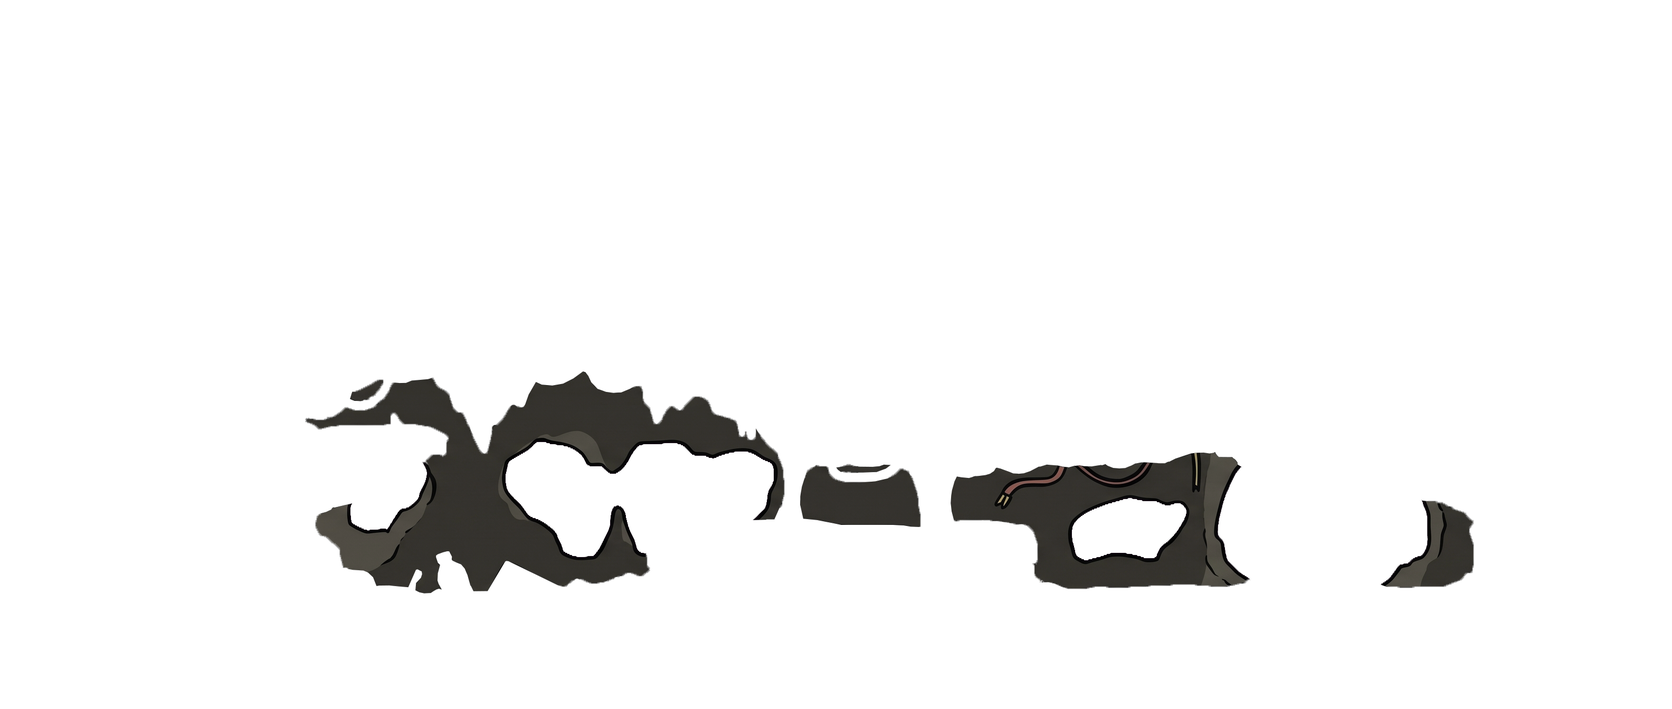
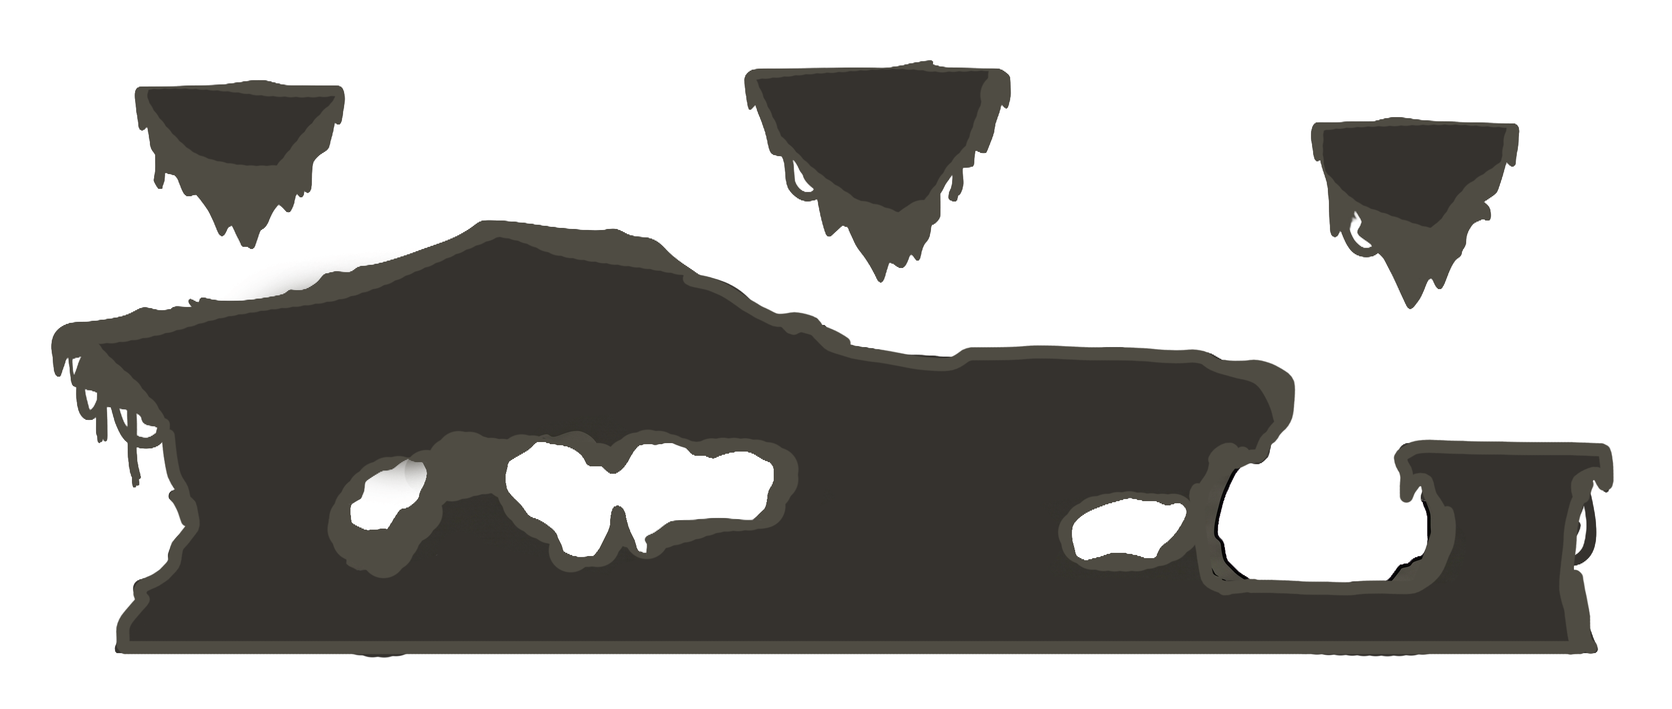
Hurda Gezegeni: mağarada doğma, sabit altın sandık, yeni mağara duvarı, tam harita görünümü, yüzen hurdalı su; bazuka/ördek itmesi azaldı

diff --git a/harita-hurda-gezegeni.js b/harita-hurda-gezegeni.js
@@ -11,7 +11,7 @@
      yakin.png  yakın hurda siluetleri (biraz daha hızlı paralaks)
      magara.png mağaraların koyu arka duvarı (süs, çarpışmaya katılmaz)
      arazi.png  oynanan arazi (patlamalarla oyulur)
-     su.png     bataklık yüzeyi (yatayda döşenir)
+     (su kodla çizilir: dalgalı bataklık + yüzen PET şişe ve cihazlar)
 
    Çarpışma maskesi aşağıda sayı olarak gömülüdür; resimden okunmaz. Böylece
    her telefonda (Safari'nin tuval gürültüsü dahil) piksel piksel aynı çıkar.
@@ -22,10 +22,11 @@ const HARITA_HURDA_PNG = (() => {
   const OY = 36;                  // arazi/mağara resminin dünyadaki üst kenarı (px)
   const OLCEK = 0.599747;                // kaynak resim pikseli → dünya pikseli
   const UZAK_KIRP = 326, YAKIN_KIRP = 341, KAYNAK_Y = 1344;   // paralaks şeritlerinin kırpılmış üst kısmı
-  const SU_ALT = 'rgb(30,43,17)';
+  const SU_ALT = '#123331';
   const RLE = ';;;;;;;;;;;;;;;;;;;;;;;;;;;;;;;;;;;;;;;;;;;;;;;;;;;;;;;;;;;;;;;;;;;;;;;;;;;;;;;;;;;;;;;;;;;;;;;;;;;;;;;;;41b,8;415,f;40f,15;409,1b;404,21;3ff,2a;3fb,31;3f5,3d;3a3,ab;35c,114;356,11d;355,11f;353,123;352,125;351,127;350,129;34f,12b;34f,12c;34f,12c;34e,12e;34e,12e;34e,12e;11d,11,34e,12e;116,1d,34e,12e;111,25,34e,12e;10a,2f,34e,12e;103,3b,34e,12e;f5,4f,34e,12e;d2,af,34e,12e;a0,e3,34f,12d;9d,e7,34f,12d;9c,e9,34f,12d;9b,eb,34f,12d;9a,ec,34f,12d;9a,ed,34f,12d;9a,ed,34f,12d;99,ee,34f,12d;99,ee,34f,12d;99,ee,350,12c;99,ee,350,12c;99,ef,350,12c;99,ef,350,12c;99,ef,350,12c;99,ef,350,12c;9a,ee,350,12c;9a,ee,351,12a;9a,ee,351,12a;9a,ed,351,12a;9a,ed,351,12a;9a,ed,351,129;9a,ed,352,120,473,7;9a,ed,352,7,35b,116,474,6;9b,ec,352,6,35b,116,475,4;9b,ec,352,5,35b,116,476,3;9b,ec,353,3,35c,115;9b,eb,353,2,35c,115;9b,eb,35c,114;9b,eb,35d,113;9b,eb,35d,113;9b,eb,35d,112;9c,ea,35e,111;9c,ea,35e,111;9c,e9,35f,10f;9c,e9,35f,10f;9c,e9,360,10e,62d,d;9c,e9,360,10d,626,1c;9c,e9,360,10d,623,24;9d,e7,361,10c,61f,2f;9d,e7,361,10b,61b,3f;9d,e7,362,10a,5f8,7d;9d,e6,362,10a,5d8,c0;9d,df,17e,5,362,109,5d6,e3;9d,df,180,1,362,109,5d5,e6;9d,df,363,108,5d4,e8;9d,df,363,108,5d4,e9;9e,dd,363,107,5d3,ea;9e,8,a8,d3,364,106,5d3,eb;9f,6,a8,d3,364,106,5d3,eb;a0,3,a8,d3,365,105,5d3,eb;a8,d3,365,105,5d2,ec;a8,d3,365,105,5d2,ec;a9,d1,366,103,5d2,ec;a9,d1,366,103,5d2,ec;a9,d1,366,103,5d2,ec;a9,d1,366,103,5d2,ec;a9,d0,367,101,5d2,ec;a9,d0,367,101,5d2,ec;a9,d0,367,101,5d2,ec;aa,ce,367,100,5d2,ec;aa,ce,368,ff,5d2,ec;aa,ce,368,fe,5d2,ec;aa,ce,368,fe,5d2,ec;aa,cd,368,fe,5d3,ea;aa,cd,368,fd,5d3,ea;aa,cd,369,fc,5d3,ea;ab,cc,369,fb,5d3,ea;ab,cb,369,fb,5d3,ea;ab,cb,369,fb,5d3,ea;ab,cb,369,fa,5d3,ea;ac,c9,36a,f9,5d4,e9;ac,c8,36a,f8,5d4,e9;ad,c6,36a,f8,5d4,e8;ad,c5,36b,ea,456,c,5d4,e8;ae,c3,36b,e9,458,9,5d4,e8;af,c0,36c,e8,45a,7,5d4,e8;af,bf,36d,e7,5d4,e8;b0,bc,36e,e6,5d4,e7;b0,bb,372,e2,5d5,e6;b0,ba,376,dd,5d5,e6;b0,b9,379,da,5d5,e6;b0,b8,379,da,5d5,e6;b0,b7,37a,d9,5d6,e5;b0,b6,37a,d9,5d6,e5;b0,b5,37a,b,386,cd,5d7,4,5dc,df;b0,b5,37b,a,387,cc,5dd,de;b0,b4,37b,a,388,cb,5dd,dd;b0,b4,37b,a,389,ca,5dd,d3,6b1,9;b0,b4,37b,b,389,ca,5dd,d2,6b2,8;b0,b3,37b,b,38a,c8,5de,d1,6b3,7;b0,b3,37c,a,38a,c8,5de,d1,6b5,3;b0,b3,37c,a,38b,c5,5de,d0;b0,b3,37c,a,38b,bf,5de,d0;b0,b3,37c,a,38c,ba,5df,cf;b0,b3,37c,a,38c,ba,5df,cf;b0,b3,37c,a,38d,b9,5df,ce;b0,b3,37c,a,38d,b9,5e0,cd;b0,b3,37c,a,38e,b8,5e0,cd;b0,b2,37c,a,38f,b7,5e0,cc;b0,b,bf,a3,37c,a,38f,b7,5e1,cb;b0,b,c4,9e,37c,b,390,b6,5e1,cb;af,c,c7,9b,37c,b,391,a8,43a,c,5e1,cb;af,c,c8,9a,37d,a,391,a8,43b,b,5e2,c9;af,c,c8,9a,37d,a,391,a7,43b,b,5e2,c9;af,c,c9,99,37d,a,392,a5,43a,c,5e2,c9;af,c,ca,98,37d,a,392,a5,43a,c,5e3,c8;af,c,ca,98,37d,a,393,a3,43a,d,5e3,c7;af,c,cb,97,37d,a,394,a1,43a,d,5e3,c7;af,c,cb,97,37d,b,394,a0,43a,d,5e4,c5;b0,a,cb,97,37e,a,395,9f,43a,d,5e4,c5;b0,a,cc,96,37e,a,396,9d,43a,d,5e4,c5;b1,9,cc,96,37e,b,397,9c,43a,d,5e4,c4;b1,8,cd,95,37e,b,398,9a,43a,c,5e4,c4;b2,7,cd,95,37f,b,399,98,439,d,5e5,c3;b3,6,cd,95,37f,c,39a,97,439,d,5e5,c2;b3,6,ce,94,380,c,39b,95,439,d,5e5,c2;b4,4,ce,94,380,c,39c,94,438,e,5e5,c2;cf,92,380,e,39d,92,438,d,5e5,c1;cf,92,381,e,39c,93,438,d,5e5,c1;d0,90,382,f,39b,93,437,e,5e5,c0;d0,8a,15c,3,383,ab,437,d,5e5,c0;d1,88,384,a9,436,e,5e5,bf;d1,88,385,a8,436,d,5e5,be;d2,7f,152,7,386,a6,436,c,5e5,bd;d4,6,e0,70,153,5,387,a5,436,b,5e6,bb;e1,6f,154,4,388,a5,436,a,5e6,b9;e2,6e,38a,a3,436,a,5e6,b7;e2,6d,38b,a2,436,a,5e6,b6;e3,6c,38c,a1,437,9,5e6,b5;e4,6b,38f,f,3a1,8c,438,7,5e6,b4;e5,6a,392,7,3a1,8c,43a,4,5e6,b2;e6,69,3a1,8c,5e6,b1;e6,68,3a2,8b,5e6,b1;e7,67,3a2,8b,5e6,b3;e8,66,3a2,8b,5e6,b4;e8,54,13e,f,3a2,8b,5e6,b5;e9,52,13f,e,3a2,8b,5e6,b6;ea,50,141,c,3a3,8a,5e6,b6;eb,4e,142,a,3a3,8a,5e6,b7;eb,4d,143,9,3a3,8a,5e6,b7;ec,4c,144,7,3a3,8a,5e6,b7;ed,4a,144,7,3a3,8a,5e6,b8;ed,4a,145,5,3a4,89,5e6,1d,605,99;ee,48,3a4,89,5e6,1d,606,98;ee,47,3a4,89,5e6,1d,606,98;ef,46,3a4,89,5e6,1d,607,97;ef,45,3a4,89,5e7,1c,607,97;f0,44,3a4,88,5e7,1c,608,96;f0,43,3a5,87,5e7,1d,609,95;f1,42,3a5,87,5e7,1a,603,1,609,95;f1,42,3a5,86,5e7,19,60a,94;f2,40,3a5,86,5e7,19,60a,8a,697,6;f2,40,3a6,84,5e7,19,60b,87,698,4;f2,3f,223,1c,3a6,83,5e7,19,60b,85;f3,3e,220,2b,3a6,82,5e7,18,60b,82;f3,3d,21e,36,3a7,80,5e7,18,60b,80;f4,3c,21d,3f,3a7,7e,5e7,18,60b,7f;f4,3b,21c,47,3a7,7d,5e7,18,60a,7f;f5,3a,21b,4d,3a7,7c,5e7,17,60a,7e;f5,10,108,26,219,56,3a8,14,3c0,62,5e7,17,609,7f;f5,f,109,24,218,5f,3a8,13,3c3,5f,5e7,17,609,7e;f6,d,109,23,216,6c,3a8,12,3c4,5e,5e7,17,608,7e;f6,c,10a,20,215,79,2b2,b,3a9,10,3c4,5e,5e7,17,608,7e;f7,b,10a,1f,213,88,2ac,14,3a9,f,3c5,5d,5e8,16,607,7e;f7,a,10a,1e,212,b0,3a9,e,3c5,5d,5e8,16,607,7e;f7,a,10b,1c,210,b4,3aa,c,3c5,5c,5e8,a,5f4,a,607,7d;f8,8,10b,1c,20e,b8,3aa,a,3c6,5b,5e8,a,5f5,a,607,7d;f9,7,10c,1b,20c,bc,3aa,9,3c6,5b,5e8,9,5f5,a,607,7d;f9,6,10c,1a,20b,bf,3ab,7,3c7,5a,5e9,8,5f5,b,608,7b;fa,4,10d,19,209,c4,3ab,6,3c7,5a,5ea,6,5f6,a,608,7b;10d,19,207,c9,3ac,4,3c8,58,5ea,5,5f6,b,609,7a;10e,17,205,d3,3c8,58,5f6,b,60a,78;10e,17,203,de,3c9,57,5f7,b,60c,76;10f,16,200,e5,3c9,56,5f7,b,60d,75;10f,15,1fe,e9,3ca,54,5f8,b,60f,73;110,14,1fb,ee,3ca,54,5f8,b,610,72;110,13,1f9,f1,3cb,52,5f9,b,612,70;111,12,1f7,f5,3cb,51,5f9,c,613,6f;111,12,1f4,f9,3cb,50,5fa,c,614,6e;112,10,1f0,ff,3cc,4f,5fa,d,616,6c;112,10,1ed,103,3cd,4d,5fb,d,616,6b;113,f,1eb,106,3cd,4d,5fb,f,617,6a;118,9,1e9,109,3ce,4b,5fc,f,616,6b;11b,6,1e6,10d,3ce,4b,5fd,10,614,6c;11c,3,1e3,111,3cf,49,5fd,82;1df,116,3d0,48,5fe,81;1dc,11a,3d0,48,5ff,7f;1da,11d,3d1,46,600,7e;1d8,120,3d2,45,601,7c;1d5,124,3d3,44,602,7b;1d2,128,3d3,44,604,19,61f,5e;1cf,12c,3d4,37,40c,b,606,15,620,5c;1cc,130,3d5,35,40d,9,608,11,621,5b;1c9,134,3d6,34,40e,8,60b,b,622,59;1c7,137,3d6,33,40f,7,623,57;1c3,13c,3d7,32,40f,7,624,55;1c0,141,3d8,30,410,5,625,52;1bc,146,3d9,2f,411,3,625,51;1b9,14b,3d9,2f,626,4f;1b5,150,3da,2d,626,4f;1b3,153,3da,2d,627,4d;1af,158,3db,17,3f6,10,627,4c;1aa,15f,3dc,16,3f8,e,628,4b;1a2,169,3dc,15,3f9,c,628,4a;19a,172,3dd,14,3fb,9,629,49;197,176,3dd,14,3fc,7,629,48;196,179,3de,13,3fe,4,62a,47;194,17c,3df,11,62a,46;193,17f,3df,11,62b,45;191,182,3e0,10,62b,44;17d,3,18f,186,3e0,f,62c,43;178,19e,3e1,e,62d,42;176,1a1,3e1,e,62d,41;172,1a7,3e2,c,62d,41;170,1aa,3e2,c,62e,3f;16f,1ad,3e3,b,62e,3f;16e,1b0,3e3,a,62f,3e;16d,1b2,3e4,9,62f,3d;16c,1b4,3e4,9,630,3c;16b,1b7,3e5,7,630,28,65b,10;16a,1b9,3e5,7,631,26,65c,f;169,1bc,3e6,5,631,26,65d,e;168,1be,3e8,2,632,24,65d,d;167,1c0,632,23,65e,c;166,1c3,633,22,65e,b;165,1c5,633,22,65e,b;163,1c9,634,20,65f,9;161,1cc,634,20,660,8;160,1cf,635,1e,660,7;15e,1d2,635,1e,661,5;15c,1d5,635,1e,663,2;158,1db,636,1c;148,1ec,636,1c;146,1f0,637,1a;145,1f3,637,1a;143,1f6,638,19;142,1f8,638,18;13e,1fe,639,17;139,205,639,16;133,20c,63a,15;e5,4,12c,215,63a,14;e4,9,126,21d,63a,13;d7,3,e3,d,121,223,63b,12;d6,6,e3,13,117,22f,63b,11;d6,8,e2,266,63c,f;d6,274,63c,f;d7,275,63d,d;d7,277,63d,c;d8,278,63e,a;d9,279,63e,a;c8,4,da,27b,63f,8;a3,4,c4,295,640,6;9f,d,c3,299,641,3;9d,13,c1,29e;9b,18,bc,2a5;99,2c9;97,2cc;95,2cf;93,2d2;90,2d6;8e,2d9,36e,14;8b,2dd,369,1a;87,2fc;81,303,39e,1;7a,30a,39d,4;74,311,39c,5;6f,316,39b,7;66,31f,39a,8;55,333,39a,8;4f,33e,399,9;4b,344,398,a;49,347,398,b;48,348,397,c,3a5,5;46,34d,395,16;44,367;43,368;42,369;41,36a;40,36b;3f,36d;3f,36d;3e,36f;3d,376;3d,379;3c,37b;3c,37c;3c,37e;3c,380;3b,382;3b,384;3b,385;3b,386;3b,388;3a,38b;3a,38f;3a,393;3a,398;3a,3a0,4e5,18;3a,3a7,4d9,2e;3b,3ac,468,3,478,6,4ce,51;3b,3b1,465,8,475,c,4c4,62;3b,3b4,462,c,473,10,4bb,6f;3b,3b7,460,f,471,14,4b5,77;3b,3bc,45d,2c,4a9,86,55a,4;3b,3c1,45a,d9,556,b;3c,3cc,457,e1,553,10;3c,3e9,453,ec,54f,16;3c,1f,5c,3d7,44f,118;3c,1d,5c,3e2,44a,11e;3c,10,4e,6,5b,50f;3c,f,4e,4,5b,511;3c,f,4e,4,5b,513;3c,e,4e,4,5a,516;3c,e,4e,4,5a,518;3c,e,4e,4,59,51a;3c,e,4e,4,59,51d;3d,c,4f,3,59,520;3d,c,4f,3,58,52d;3d,c,4f,3,58,544;3d,b,4f,4,58,54a;3d,b,4f,4,57,54d;3d,b,4f,4,57,54f;3d,a,4f,4,57,551;3e,9,4f,4,56,554;3e,9,4f,4,56,240,298,314;3e,8,50,3,55,240,29a,313;3e,8,50,3,55,23e,29b,313;3f,7,50,4,55,23d,29b,314;40,5,50,240,29c,315;41,3,50,23f,29d,315;50,23e,29d,316;50,19b,1ec,a0,29e,316;50,198,1ed,9e,29e,317;51,15e,1b3,2c,1ed,9c,29f,317;51,15b,1b4,20,1ee,99,29f,318;51,159,1b4,1d,1ee,97,2a0,317;51,157,1b4,1b,1ef,72,262,21,2a0,318;52,155,1b4,a,1ef,71,264,1d,2a1,317;52,153,1b3,a,1f0,6f,266,17,2a2,316;52,151,1b3,a,1f1,6e,26c,b,2a3,315;53,14e,1b2,a,1f2,6c,2a4,314;55,14a,1b1,b,1f3,6b,2a5,2b,2d9,2df;57,146,1b1,a,1f4,69,2a6,28,2d9,2df;57,144,1b1,a,1f6,67,2a7,25,2da,2de;57,a,62,137,1b0,a,1f8,64,2a9,21,2da,2de;57,a,66,131,1af,b,1f9,62,2ac,1c,2db,2dd;57,a,69,12b,1ae,b,1fb,60,2ae,17,2db,2dd;57,a,6d,123,1ad,b,1fc,5e,2b1,12,2db,2dd;57,a,6e,122,1ac,c,1fd,5d,2db,2dd;57,a,6e,121,1ac,b,1fe,5b,2db,2dd;57,a,6e,121,1ab,c,1ff,5a,2db,48,325,293;57,a,6e,121,1ab,b,1ff,59,2db,49,326,292;57,b,6e,120,1a9,d,1ff,59,2db,4e,32a,28e;57,b,6e,120,1a5,10,1ff,59,2db,38,31e,29a;57,b,6e,120,1a4,10,200,57,2db,37,321,297;57,b,6e,120,1a4,f,200,57,2db,36,322,296;57,c,6e,121,1a3,e,200,56,2dc,34,323,295;57,c,6e,124,19d,13,201,55,2dc,33,325,293;57,c,6d,142,201,55,2dc,32,325,293;57,c,6d,140,202,53,2dd,30,326,292;58,c,6c,140,202,53,2de,2e,326,292;58,c,6c,13f,202,53,2df,2c,327,291;58,c,6c,13f,203,43,24a,a,2e0,2a,327,291;58,c,6b,13e,203,41,24c,7,2e1,1a,2fc,d,327,291;58,d,6a,13e,203,40,24f,3,2e2,16,2ff,a,328,290;59,c,6a,f,7e,109,18c,1a,204,3e,2e3,14,300,8,328,290;59,c,69,10,7e,a,8a,fc,18f,9,19c,7,205,3d,2e3,13,302,5,329,28f;59,d,68,11,7f,9,8f,f6,193,c,206,3b,2e3,12,303,3,329,28f;59,20,7f,9,90,f4,207,39,2e3,12,329,28f;5a,1f,7f,9,91,f2,208,38,2e4,10,32a,28d;5a,1f,7f,a,91,f1,209,36,2e4,10,32b,28c;5b,1f,80,9,91,ef,20e,31,2e4,f,32c,28b;5b,1f,80,9,91,a,9d,e2,1be,2,20f,2f,2e4,f,32d,28a;5c,1e,80,a,91,a,9e,df,1bd,4,20f,2f,2e5,d,330,287;5c,1e,81,9,91,a,9f,dd,1bd,5,210,2d,2e5,c,335,281;5d,1d,81,9,91,a,a0,da,1bc,7,210,2c,2e5,c,337,27f;5e,1c,81,a,91,a,a1,d3,1bc,8,211,2b,2e6,b,33a,27c;5f,c,6d,d,82,9,91,a,a1,bb,15d,1,160,13,1bc,8,211,2a,2e6,a,33e,278;61,8,6d,d,82,9,91,a,a1,ba,167,9,1bc,9,212,28,2e6,a,340,275;6d,d,82,a,91,a,a1,ba,1bc,9,212,27,2e7,8,343,272;6d,d,82,a,91,a,a2,b9,1bc,a,212,26,2e7,7,344,271;6d,d,83,a,91,a,a2,b9,1bc,b,213,24,2e7,6,345,270;6d,d,83,a,91,a,a3,ba,1bc,c,213,23,2e8,4,345,26f;6d,d,83,b,91,a,a4,bc,1bc,d,214,21,2e9,2,346,26e;6d,d,84,a,91,a,a6,bd,1bb,11,214,20,346,26e;6d,d,84,b,91,a,aa,bb,1b5,25,215,1c,347,26c;6d,d,85,b,91,a,ae,b8,181,5f,216,1a,347,26c;6d,d,85,16,b1,b6,177,70,216,19,347,266,5af,3;6d,d,85,16,b3,b5,173,77,216,19,347,266;6d,d,86,15,b3,b6,16e,7f,217,18,347,265;6d,d,86,15,b2,13d,217,18,347,14,35c,250;6d,d,87,14,b2,13f,217,18,348,13,35d,24f;6d,d,87,14,b2,140,218,17,348,7,350,b,35d,24e;6d,d,88,13,b2,142,218,17,348,7,350,b,35e,24d;6d,d,88,13,b1,145,219,16,348,6,350,b,35f,24b;6e,c,89,12,b0,149,219,16,348,6,350,b,360,249;6e,c,8a,11,ae,14c,219,15,349,5,351,a,361,246;6e,c,8a,13,ad,14e,21a,14,34a,3,351,9,361,245;6f,b,8b,13,ab,151,21a,14,351,9,362,243;6f,b,8b,17,a9,154,21b,12,352,7,362,243;6f,b,8c,171,21b,12,353,5,363,242;6f,b,8d,16f,21c,11,354,3,364,241;6f,5,76,3,8e,16e,21c,11,365,240;6f,5,77,1,8f,2a,bb,141,21d,f,366,23f;70,2,90,28,bb,140,21d,f,366,23f;91,26,bb,140,21d,f,367,23e,642,7;91,25,bb,140,21e,e,368,23c,63d,78,705,6;91,24,bb,140,21e,d,369,23b,63a,8d,700,1a;91,23,bb,140,21f,c,36a,23a,639,e4;91,20,bc,13f,21f,c,36b,239,638,e7;91,1f,bc,13f,220,b,36c,237,637,e9;91,a,9f,e,bc,13f,221,a,36d,237,637,ea;91,a,bc,13f,221,9,36f,234,636,ec;91,a,bc,13f,222,8,370,233,636,ed;91,a,bd,13e,223,7,371,232,635,ef;91,a,bd,13e,223,6,372,231,635,f0;91,a,bd,13e,225,3,373,1e4,558,b,565,3d,635,f0;91,a,be,13c,374,1d5,566,3c,635,f1;91,a,be,13b,374,1d2,566,3c,634,f2;91,b,be,12c,1f7,1,374,1cf,567,3a,634,f3;91,b,be,12a,374,1cc,568,39,634,f3;92,a,bf,128,375,1c8,578,28,635,f2;92,a,bf,128,375,1c5,579,27,635,f3;92,a,bf,126,376,1c1,57b,24,635,f3;92,a,c0,10e,1d1,13,376,1bf,57c,22,635,f3;92,a,c0,10c,1d4,10,377,1bc,57d,20,635,f3;92,a,c0,109,1d7,c,377,1ba,57e,1d,635,f3;92,a,c0,108,378,19a,518,16,57e,1c,636,f3;92,a,c0,107,378,195,524,8,57e,a,58c,1,591,8,636,f3;92,b,c0,105,378,191,57f,8,636,f3;92,b,c1,103,379,49,3c7,24,3f4,b0,4ac,36,4e4,1,4e9,1e,57f,7,636,f3;93,a,c1,102,379,25,3a3,1b,3cb,1e,3f3,ae,4b4,11,4ce,f,4eb,1a,581,1,636,f3;93,a,c1,100,379,24,3ac,f,3d8,8,3f2,aa,4b9,8,4ee,14,636,f3;93,a,c1,ff,37a,20,3ad,a,3f1,a9,4f0,10,636,f3;93,b,c1,fe,37a,1e,3ae,9,3ef,11,402,69,470,28,636,f3;93,b,c1,fc,37a,1d,3ae,a,3ed,11,403,68,473,23,635,f3;94,a,c1,f8,37a,1c,3ae,a,3ea,13,406,64,476,1e,636,f2;94,a,c2,f0,37a,1b,3ae,c,3e8,14,409,60,479,19,636,f2;94,b,c2,ee,37a,1b,3af,c,3e5,16,409,5f,47c,14,637,f1;94,b,c2,ec,37a,1a,3af,12,3c3,3,3cf,2b,409,5d,47e,e,638,ef;94,b,c2,eb,37a,1a,3b0,48,40a,5b,485,2,639,ee;95,a,c2,e9,37a,19,3b0,47,40a,57,63b,ec;95,b,c2,e7,37a,19,3b1,44,40b,50,63c,ea;95,b,c3,e5,37a,19,3b2,42,40c,47,63d,e9;96,a,c3,e3,37a,19,3b3,3f,40d,32,445,b,63d,e9;96,9,c3,e2,37b,17,3b5,3c,40d,31,63d,d6,716,10;96,8,c4,df,37b,17,3b6,38,40e,30,63d,d6,717,f;96,8,c4,de,37b,16,3b9,30,40e,2f,63d,d6,718,e;96,8,c4,dd,37c,15,3bb,2a,40e,2f,63d,d5,719,c;96,8,c4,dc,37c,15,3c0,1e,40f,2d,63c,d6,719,c;96,8,c5,da,37c,15,40f,2d,63c,d5,71a,b;96,8,c5,da,37c,14,40f,2d,63c,d5,71a,b;96,8,c5,da,37c,14,410,2c,63c,d5,71b,a;97,7,c6,d8,37c,14,410,2b,63c,d4,71b,a;97,4,c6,d8,37c,13,410,2b,63c,11,64f,c1,71c,9;97,3,c6,d8,37c,13,410,2b,63c,e,650,c0,71c,9;c7,d7,37c,13,411,2a,63c,e,650,bf,71c,9;c7,d7,37c,13,411,29,63c,d,650,bf,71d,7;c7,d7,37c,12,411,29,63c,d,650,bf,71d,7;c5,d9,37c,12,412,28,63c,c,650,bf,71e,6;c2,dc,37c,12,412,27,63c,c,650,bf,71e,6;c1,dc,37c,12,413,26,63d,b,650,bf,720,2;c0,dd,37c,12,413,26,63d,a,650,c0;c0,dc,37c,12,413,26,63d,a,64f,c1;c0,dc,37b,12,413,26,63d,9,64f,c1;c0,dc,37b,12,413,26,63d,9,64f,c1;c0,db,37b,12,414,25,63d,8,64f,c1;c0,db,37a,13,414,25,63d,8,64f,c2;c0,da,37a,13,414,25,63d,7,64f,c2;c1,d8,37a,13,414,24,63e,6,64f,c2;c2,d5,37a,13,414,24,63e,5,64f,c2;c4,d1,37a,13,414,24,640,1,660,b2;c5,cf,379,14,414,24,662,b0;c7,cb,379,14,414,24,668,aa;c8,c7,379,14,414,24,66a,a8;c9,c1,379,14,414,24,66c,a6;c9,bd,379,14,414,24,66d,a5;ca,b8,378,15,414,25,670,a3;cb,b3,378,16,415,24,673,94,708,b;cc,ad,376,18,415,24,674,93,709,a;cc,ad,375,19,415,24,675,92,709,a;cd,ab,375,19,415,24,678,8e,709,a;cd,a8,375,1a,415,24,67b,8b,709,b;ce,a5,374,1b,415,24,67e,88,709,b;ce,a2,374,1b,416,24,680,85,70a,a;ce,9f,373,1c,416,24,682,83,70a,a;ce,9c,373,1d,416,24,682,82,70a,a;cf,9a,372,1e,416,24,683,80,70a,a;cf,99,372,1e,416,25,684,7f,70a,b;cf,99,371,1f,416,25,685,7d,70a,b;d0,98,371,1f,416,25,686,7b,70a,b;d0,98,328,11,371,20,416,25,687,7a,70a,b;d1,96,31a,2d,370,27,416,26,688,79,70b,a;d1,96,307,9a,416,26,68a,77,70b,a;d2,95,2fc,ab,416,27,442,25,68a,77,70b,a;d2,94,2fa,b1,416,5e,68b,77,70b,a;d3,93,2f7,ba,416,64,68b,78,70b,a;d4,92,2f6,c0,416,69,68a,7a,70b,b;d4,92,2f4,c6,416,75,68a,7a,70b,b;d5,91,2f3,110,416,78,689,7b,70b,b;d6,90,2f2,117,416,7a,688,7c,70b,b;d6,91,2f0,1a1,688,7c,70b,b;d6,91,2ef,1a3,687,7d,70b,b;d5,93,2ee,1a5,686,7d,70b,b;d3,95,2ec,1a8,686,7d,70b,b;d1,97,2eb,1aa,686,7c,70b,b;d0,99,2e9,1ad,686,7c,70b,b;cf,9a,2e8,1ae,686,7b,70a,c;cd,9d,2e6,1b0,687,7a,70a,c;cc,9e,2e4,1b3,687,79,70a,c;cb,a0,2e1,1b6,687,79,70a,c;ca,a4,2e0,1b7,688,77,70a,c;c9,a8,2df,1b9,688,77,70a,c;c8,ab,2de,1ba,688,76,70a,c;c7,ad,2dd,1bc,689,75,709,d;c6,af,2dd,1bc,689,74,709,d;c6,b0,2dd,1bc,689,74,709,c;c5,b2,2de,1bc,68a,73,709,c;c5,b3,2de,1bc,68a,73,708,d;c4,b5,2df,1bb,68b,72,708,d;c4,b7,2df,1bc,68b,72,708,d;c3,b9,2df,1bc,68b,72,708,c;c2,bb,2df,1bc,68b,72,707,d;c2,bc,2df,1bc,68b,72,707,d;c2,bd,2df,1bc,68b,72,706,e;c1,bf,2df,1bc,68b,72,706,d;c1,c0,2df,1bc,68b,72,705,e;c0,c1,2df,1bc,68b,72,704,f;c0,c1,2df,1bc,68b,71,703,f;c0,c2,1f9,6,2df,1bc,68b,71,703,f;bf,c3,1f6,9,2df,1bc,68b,71,702,f;bf,c3,1f3,d,2de,1bd,68b,71,700,11;bf,c3,1f1,f,2df,1bc,68b,71,6ff,11;bf,c3,1f0,11,2df,1bc,68b,84;bf,c3,1f0,11,2df,1bc,68b,84;bf,c4,1f0,11,2e0,1bb,68b,83;bf,c4,1f0,11,2e0,1bb,68b,82;bf,c4,1f0,11,2e0,1bb,68b,81;bf,c4,1f1,10,2e0,1bb,68b,80;c0,c3,1f1,11,2e0,1ba,68b,7f;c0,c4,1f1,13,23e,5,2e0,1ba,68b,7d;c0,c4,1f2,15,23e,7,2e0,1b9,68b,7b;c0,c4,1f3,16,23d,a,2e0,1b5,68b,7a;c0,c5,1f4,17,23c,d,2e0,1b6,68b,78;c0,c5,1f4,19,23c,f,2e0,1b6,68b,75;bd,c8,1f4,19,23b,12,2e1,1b6,68b,72;bb,cb,1f4,1a,23b,14,2e1,1b6,68b,71;b9,cd,1f3,1c,23a,17,2e2,1b5,68a,72;b8,d3,1f3,1d,239,1a,2e2,1b5,68a,72;b6,d8,1f3,1d,239,1c,2e2,1b5,68a,73;b5,e4,1d9,4,1f3,1e,238,1f,2e3,1b4,68a,73;b4,ea,1d8,7,1f2,1f,238,21,2e2,1b5,689,74;b3,ee,1d8,7,1f2,20,237,24,2e1,1b6,689,74;b2,f1,1d7,8,1f2,20,236,27,2df,1b8,687,76;b1,f3,1d7,8,1f2,21,236,29,2c8,6,2de,1b9,683,7a;b0,f5,1d6,9,1f2,21,235,2c,2c6,b,2dc,1bb,682,7b;ae,f8,1d6,9,1f2,21,235,2e,2c5,e,2db,1bd,681,7c;ab,fc,1d5,a,1f2,22,234,31,2c0,1d8,680,7d;a7,101,1d5,9,1f1,23,233,35,2bb,1de,680,7e;a3,105,1d5,9,1f1,23,233,37,2ba,1e0,67f,80;a0,109,1d4,9,1f1,23,232,3a,28e,4,2b9,1e3,67e,81;9e,10b,1d4,8,1f1,24,232,3c,28d,8,2b6,1e7,58b,1,58d,1,67d,83;9c,10d,1d3,8,1f2,23,231,3f,28b,c,2b4,1ea,58a,5,590,17,67a,86;9a,110,1d3,7,1f2,23,230,42,28a,10,2b0,1ee,588,27,600,16,678,89;99,111,1d2,7,1f2,24,230,44,289,14,2aa,1ec,499,10,587,30,5fa,1f,674,8d;99,112,1d2,7,1f2,24,22f,47,287,19,2a7,f,2b9,1f5,585,39,5f5,26,672,8f;98,113,1d1,8,1f3,23,22f,49,286,2f,2b7,1f9,57f,45,5f0,2e,671,8f;98,113,1d1,7,1f4,23,22e,4c,285,22d,534,1a,57b,4e,5eb,37,66d,93;98,12a,1d1,7,1f4,23,22e,4f,284,231,51b,42,575,b1,66b,95;97,138,1d0,8,1f5,23,22d,28a,4dc,d,505,12f,648,b7;97,141,1f5,23,22c,28e,4d6,229;97,141,1f6,23,22c,291,4d3,22b;97,141,1f0,29,22b,4d3;97,142,1ee,2c,22b,4d3;98,143,1ec,511;98,145,1eb,513;98,149,1e7,517;99,666;99,666;9a,665;9b,665;9b,665;9c,665;9d,664;9d,664;9e,664;9e,664;9a,669;9a,669;9b,669;9b,669;9a,66b;9a,66b;99,66c;99,66d;98,66e;97,670;96,671;96,671;95,673;94,674;93,676;93,676;92,678;91,679;90,67a;90,67b;8f,67c;8f,67d;8e,67e;8e,67e;8d,680;8d,680;8c,682;8c,682;8b,683;8b,684;8b,684;8a,686;8a,686;8a,686;89,688;89,688;89,688;88,68a;88,68a;87,68b;87,68c;86,68d;86,68d;85,68f;85,68f;85,690;84,691;84,692;83,693;83,694;83,694;83,694;83,695;83,695;83,694;83,694;84,692;;;;;;;;;;;;;;;;;;;;;;';
 
-  const img = {}, ADLAR = ['gok', 'uzak', 'yakin', 'magara', 'arazi', 'su'];
+  const img = {}, ADLAR = ['gok', 'uzak', 'yakin', 'magara', 'arazi'];
+  const SURUM = 2;   // resim değişince artır (tarayıcı önbelleği eskisini göstermesin)
   let yukleniyor = null, hazir = false;
 
   // Resimleri önceden yükler. Oyunu başlatmadan önce bitmiş olmalı.
@@ -35,7 +36,7 @@ const HARITA_HURDA_PNG = (() => {
       const i = new Image(); i.decoding = 'async';
       i.onload = () => { img[ad] = i; ok(); };
       i.onerror = () => hata(new Error('Harita resmi yüklenemedi: ' + ad));
-      i.src = klasor + ad + '.png';
+      i.src = klasor + ad + '.png?v=' + SURUM;
     }))).then(() => { hazir = true; });
     return yukleniyor;
   }
@@ -88,11 +89,83 @@ const HARITA_HURDA_PNG = (() => {
     serit(ctx, img.yakin, YAKIN_KIRP, vw, vh, kam, 0.28, 0.12);
   }
 
-  // Bataklık: dünya koordinatlarında, su çizgisinden aşağısı
+  // Bataklık: dünya koordinatlarında, su çizgisinden aşağısı. Kodla çizilir:
+  // dalgalı yüzey, kabarcıklar, yosun lekeleri ve dalgayla sallanan hurdalar (yarısı suyun içinde).
+  const CIZGI = '#17140f';
+  const hs = (a, b) => { const v = Math.sin(a * 127.1 + b * 311.7) * 43758.5453; return v - Math.floor(v); };
+  const HURDA = [
+    function pet(c, h) {   // yan yatmış plastik şişe
+      c.fillStyle = 'rgba(196,228,236,.92)';
+      c.beginPath(); c.roundRect(-14, -5.5, 21, 11, 4); c.fill(); c.stroke();
+      c.beginPath(); c.moveTo(7, -4); c.quadraticCurveTo(11, -2.5, 11, -2.2); c.lineTo(11, 2.2); c.quadraticCurveTo(11, 2.5, 7, 4); c.fill(); c.stroke();
+      c.fillStyle = ['#d8423a', '#3c7fd0', '#3aa35a', '#f1efe6'][Math.floor(h * 4)];
+      c.beginPath(); c.roundRect(11, -3, 4, 6, 1); c.fill(); c.stroke();
+      c.fillStyle = ['#e8533f', '#2f9ad8', '#f0c23b'][Math.floor(h * 7) % 3];
+      c.fillRect(-8, -5.5, 8, 11); c.strokeRect(-8, -5.5, 8, 11);
+      c.strokeStyle = 'rgba(255,255,255,.75)'; c.beginPath(); c.moveTo(-12, -3); c.lineTo(5, -3); c.stroke();
+    },
+    function telefon(c, h) {
+      c.fillStyle = '#2a2d33'; c.beginPath(); c.roundRect(-11, -6, 22, 12, 3); c.fill(); c.stroke();
+      c.fillStyle = h > 0.5 ? '#5f8fb4' : '#4a6f8c'; c.fillRect(-8.5, -4, 17, 8);
+      c.strokeStyle = 'rgba(230,240,255,.8)'; c.lineWidth = 1; c.beginPath(); c.moveTo(-3, -4); c.lineTo(0, -0.5); c.lineTo(-2, 4); c.moveTo(0, -0.5); c.lineTo(5, 1); c.stroke();
+    },
+    function klavye(c) {
+      c.fillStyle = '#d3cdbd'; c.beginPath(); c.roundRect(-18, -5, 36, 10, 2); c.fill(); c.stroke();
+      c.fillStyle = '#8f8a7c';
+      for (let r = 0; r < 2; r++) for (let k = 0; k < 8; k++) c.fillRect(-15.5 + k * 4, -3 + r * 3.4, 2.6, 2.2);
+    },
+    function monitor(c, h) {
+      c.fillStyle = '#c7bc9f'; c.beginPath(); c.roundRect(-12, -10, 24, 19, 3); c.fill(); c.stroke();
+      c.fillStyle = '#34444c'; c.beginPath(); c.roundRect(-8.5, -7, 17, 12, 2); c.fill(); c.stroke();
+      c.strokeStyle = 'rgba(160,210,220,.55)'; c.beginPath(); c.moveTo(-6, -5); c.lineTo(-2, -5); c.stroke();
+      if (h > 0.5) { c.strokeStyle = 'rgba(230,240,255,.8)'; c.lineWidth = 1; c.beginPath(); c.moveTo(2, -7); c.lineTo(-1, -1); c.lineTo(3, 5); c.stroke(); }
+    },
+    function kart(c) {   // yeşil devre kartı
+      c.fillStyle = '#2f7a43'; c.beginPath(); c.rect(-15, -4.5, 30, 9); c.fill(); c.stroke();
+      c.strokeStyle = '#d9b54a'; c.lineWidth = 1;
+      c.beginPath(); c.moveTo(-13, -1.5); c.lineTo(-4, -1.5); c.lineTo(-2, 1.5); c.lineTo(12, 1.5); c.moveTo(-13, 2); c.lineTo(-7, 2); c.stroke();
+      c.fillStyle = '#1d1f22'; c.fillRect(1, -3.5, 7, 4.5);
+    },
+  ];
   function su(ctx, t, x0, x1, suY) {
-    const s = img.su, w = s.width * OLCEK, h = s.height * OLCEK, kay = (t * 6) % w, y = suY - 3 + Math.sin(t * 1.3) * 1.2;
-    ctx.fillStyle = SU_ALT; ctx.fillRect(x0, y + h - 1, x1 - x0, 1200);
-    for (let x = Math.floor((x0 - kay) / w) * w + kay - w; x < x1; x += w) ctx.drawImage(s, x, y, w + 0.5, h);
+    const dalga = x => suY + Math.sin(x * 0.021 + t * 1.5) * 2.6 + Math.sin(x * 0.053 - t * 1.05) * 1.4;
+    const a = Math.floor(x0 / 10) * 10 - 10, b = x1 + 10;
+    const yuzey = (alt) => { ctx.beginPath(); ctx.moveTo(a, alt); for (let x = a; x <= b; x += 10) ctx.lineTo(x, dalga(x)); ctx.lineTo(b, alt); ctx.closePath(); };
+    const govde = ctx.createLinearGradient(0, suY - 4, 0, suY + 70);
+    govde.addColorStop(0, '#4f9a86'); govde.addColorStop(0.3, '#2c6b62'); govde.addColorStop(1, SU_ALT);
+    ctx.fillStyle = govde; yuzey(suY + 1200); ctx.fill();
+    // Yavaşça sürüklenen yosun lekeleri
+    ctx.fillStyle = 'rgba(160,214,120,.30)';
+    for (let i = Math.floor((x0 - 200) / 160); i * 160 < x1 + 200; i++) {
+      const lx = i * 160 + hs(i, 3) * 90 + ((t * 5 + hs(i, 4) * 160) % 160), ly = suY + 10 + hs(i, 5) * 22;
+      ctx.beginPath(); ctx.ellipse(lx, ly, 16 + hs(i, 6) * 18, 2.2 + hs(i, 7) * 2, 0, 0, Math.PI * 2); ctx.fill();
+    }
+    // Yükselip yüzeyde patlayan kabarcıklar
+    ctx.strokeStyle = 'rgba(200,240,170,.75)'; ctx.lineWidth = 1.2;
+    for (let i = Math.floor(x0 / 70) - 1; i * 70 < x1 + 70; i++) {
+      const f = (t * (0.35 + hs(i, 8) * 0.3) + hs(i, 9)) % 1, bx = i * 70 + hs(i, 10) * 60;
+      if (f < 0.85) { ctx.beginPath(); ctx.arc(bx + Math.sin(f * 9) * 1.5, dalga(bx) + 4 + (1 - f / 0.85) * 34, 1.3 + f * 1.6, 0, Math.PI * 2); ctx.stroke(); }
+      else { const r = 3 + (f - 0.85) * 40; ctx.beginPath(); ctx.ellipse(bx, dalga(bx) + 1, r, r * 0.3, 0, 0, Math.PI * 2); ctx.stroke(); }
+    }
+    // Yüzen hurdalar: dalgayla iner kalkar, eğimine göre yatar
+    ctx.lineJoin = 'round';
+    for (let i = Math.floor(x0 / 115) - 1; i * 115 < x1 + 115; i++) {
+      if (i < 0 || i * 115 > W || hs(i, 11) < 0.35) continue;
+      const h = hs(i, 12), tur = Math.floor(hs(i, 13) * 100) % HURDA.length;
+      const hx = i * 115 + 20 + h * 70 + Math.sin(t * 0.4 + i) * 5;
+      const egim = Math.atan2(dalga(hx + 10) - dalga(hx - 10), 20) + (hs(i, 14) - 0.5) * 0.5;
+      ctx.save(); ctx.translate(hx, dalga(hx) + 2 + Math.sin(t * 2.1 + i * 1.7) * 0.8); ctx.rotate(egim); ctx.scale(1.35, 1.35);
+      if (hs(i, 15) > 0.5) ctx.scale(-1, 1);
+      ctx.strokeStyle = CIZGI; ctx.lineWidth = 1.3;
+      HURDA[tur](ctx, h); ctx.restore();
+    }
+    // Hurdaların alt yarısı suyun içinde kalsın: bulanık su katmanı yeniden
+    ctx.save(); ctx.globalAlpha = 0.6; ctx.translate(0, 2.5); yuzey(suY + 1200); ctx.fillStyle = govde; ctx.fill(); ctx.restore();
+    // Kalın çizgi film dış hattı + parlak kenar
+    ctx.beginPath(); for (let x = a; x <= b; x += 10) x === a ? ctx.moveTo(x, dalga(x)) : ctx.lineTo(x, dalga(x));
+    ctx.strokeStyle = CIZGI; ctx.lineWidth = 3; ctx.stroke();
+    ctx.beginPath(); for (let x = a; x <= b; x += 10) x === a ? ctx.moveTo(x, dalga(x) + 3) : ctx.lineTo(x, dalga(x) + 3);
+    ctx.strokeStyle = 'rgba(176,232,190,.8)'; ctx.lineWidth = 1.6; ctx.stroke();
   }
 
   return {

diff --git a/index.html b/index.html
@@ -408,7 +408,7 @@ const PUNCH_DMG = 10, PUNCH_REACH = 34;
 const DIG_MAX = 180, DIG_R = 18;                    // kürek: bir kullanımda 180 px tünel
 const PORTAL_COLORS = ['#3ec5ff', '#ff9a3c'];
 const WORM_NAMES = ['Paşa', 'Kömür', 'Fındık', 'Tospik', 'Zeytin', 'Pamuk', 'Leblebi', 'Haydut', 'Sucuk', 'Pırasa', 'Boncuk', 'Lokum', 'Turşu', 'Kaju', 'Simit', 'Mantı'];
-const ID_PREFIX = 'gasmerler-v11-';
+const ID_PREFIX = 'gasmerler-v12-';
 const CODE_CHARS = 'ABCDEFGHJKLMNPQRSTUVWXYZ23456789';
 
 // Tohumlu rastgelelik: arazi tohumdan üretilir, böylece her telefon aynı haritayı kendisi çizer
@@ -687,6 +687,16 @@ function carve(cx, cy, r) {
 }
 
 function surfaceY(x) { for (let y = 0; y < H; y++) if (isSolid(x, y)) return y - 1; return null; }
+// Bir sütundaki bütün basılabilir zeminler (üst yüzey + mağara tabanları); üstünde asker boyu kadar boşluk olmalı
+function floorsAt(x) {
+  const out = [];
+  for (let y = 1, free = 0; y < WATER - 40; y++) {
+    if (!isSolid(x, y)) { free++; continue; }
+    if (free > UNIT_H + 6 && !isSolid(x - 6, y - 4) && !isSolid(x + 6, y - 4)) out.push(y - 1);
+    free = 0;
+  }
+  return out;
+}
 
 function normalAt(x, y) {
   let nx = 0, ny = 0;
@@ -853,6 +863,8 @@ function startGame(opts) {
   aktifHarita = opts.harita === 'hurda' ? 'hurda' : 'plastik';
   W = aktifHarita === 'hurda' ? HARITA_HURDA_PNG.W : opts.teams.length > 4 ? 1900 : 1500;   // Hurda Gezegeni hep 1900; Plastik Evrim 5-6 oyuncuda genişler
   genTerrain();
+  mapTop = 0; while (mapTop < WATER - 100 && !solid.subarray(mapTop * W, mapTop * W + W).includes(1)) mapTop++;
+  mapTop -= 40;
   teams = []; units = []; projs = []; parts = []; pops = []; graves = []; crates = []; portals = []; bubbles = []; carveLog = []; pid = 0;
   active = null; winnerIdx = -1; portalPending = 0; portalReturn = false; ffTurn = 0; moveLeft = MOVE_MAX;
   airTarget = null; shotThisTurn = false; camHold = null;
@@ -865,13 +877,14 @@ function startGame(opts) {
   });
   const total = teams.length * size, xs = [];
   for (let tries = 0; xs.length < total && tries < 5000; tries++) {
-    const x = 80 + rng() * (W - 160), y = surfaceY(x);
-    if (y === null || y > WATER - 40 || xs.some(o => Math.abs(o - x) < 70)) continue;
-    xs.push(x);
+    // Hurda Gezegeni'nde mağara tabanlarında da başlanabilir: o sütundaki zeminlerden biri rastgele seçilir
+    const x = 80 + rng() * (W - 160), fl = aktifHarita === 'hurda' ? floorsAt(x) : [surfaceY(x)], y = fl[Math.floor(rng() * fl.length)] ?? null;
+    if (y === null || y > WATER - 40 || xs.some(o => Math.hypot(o.x - x, o.y - y) < 70) || crates.some(c => Math.hypot(c.x - x, c.y - y) < 60)) continue;
+    xs.push({ x, y });
   }
   for (let k = 0; k < total; k++) {
     const ti = k % teams.length, t = teams[ti], idx = t.units.length;
-    const x = xs[k] ?? (100 + k * 70), y = surfaceY(x) ?? 200;
+    const x = xs[k]?.x ?? (100 + k * 70), y = xs[k]?.y ?? surfaceY(x) ?? 200;
     const name = String(t.wn[idx] || '').trim().slice(0, 12) || WORM_NAMES[(ti * 4 + idx) % WORM_NAMES.length];
     const u = { x, y, vx: 0, vy: 0, h: UNIT_H, grounded: true, hp: 100, alive: true, team: t, name, traitor: false, facing: x < W / 2 ? 1 : -1, aim: -0.5, isUnit: true };
     t.units.push(u); units.push(u);
@@ -1047,6 +1060,8 @@ function kill(u) {
 // Gömülü altın sandık: toprağın derinlerinde, etrafı tamamen toprakla çevrili iki oyuk açılır.
 // Haritanın tohumundan üretilir, böylece her telefonda aynı yerdedir. İçindeki sandık "Hele İki Gözüm" verir.
 function buryGoldCrates() {
+  // Hurda Gezegeni: altın sandık büyük kemerin altındaki, sarkıtların arasındaki kuytu rafta durur (haritanın en zor yeri)
+  if (aktifHarita === 'hurda') { let y = 470; while (y < WATER && !isSolid(462, y + 1)) y++; return [{ x: 462, y }]; }
   const out = [], RX = 30, RY = 24;
   const enclosed = (x, y, min) => {   // oyuğun çevresindeki halkanın neredeyse tamamı toprak olmalı (mağaraya denk gelmesin)
     let n = 0;
@@ -1315,7 +1330,7 @@ function endDig(t) {
   if (WEAPONS[t.weapon].id === 'shovel') t.weapon = prev;
 }
 
-// kb: fırlatma çarpanı (bazuka 0,75: vurduğu askeri daha az fırlatır)
+// kb: fırlatma çarpanı (bazuka 0,675, Deli Ördek 0,75: vurduğu askeri daha az fırlatır)
 function explode(x, y, r, dmg, kb = 1) {
   explodeFx(x, y, r);
   if (mode === 'host') carveLog.push([r1(x), r1(y), r]);
@@ -1431,7 +1446,7 @@ function stepPortalShot(p) {
 
 function detonate(p) {
   p.dead = true;
-  explode(p.x, p.y, p.r, p.dmg, p.type === 'rocket' ? 0.75 : 1);
+  explode(p.x, p.y, p.r, p.dmg, p.type === 'rocket' ? 0.675 : 1);
   if (p.type === 'cluster') for (let i = 0; i < 5; i++) {
     addProj({ type: 'frag', x: p.x, y: p.y - 6, vx: (rng() * 2 - 1) * 220, vy: -180 - rng() * 220, impact: true, r: 22, dmg: 20, age: 0.2 });
   }
@@ -1452,7 +1467,7 @@ function stepGoat(g) {
   } else airStep(g, DT);
   teleportProj(g, 7);
   if (g.y > WATER + 4) { splash(g.x, WATER); g.dead = true; return; }
-  if (g.fuse <= 0) { g.dead = true; explode(g.x, g.y - 8, g.r, g.dmg); }
+  if (g.fuse <= 0) { g.dead = true; explode(g.x, g.y - 8, g.r, g.dmg, 0.75); }
 }
 
 // ---- Ana simülasyon adımı (sabit 60 Hz, sadece local ve host'ta) ----
@@ -1830,12 +1845,15 @@ function applyAct(m) {
 }
 
 // ---- Kamera ----
+const OV_PAD = 120;   // harita görünümünde üst + alt düğme şeritleri (px)
+let mapTop = 0;      // en yüksek toprağın 40 px üstü; genTerrain sonunda hesaplanır
 function viewSize() { return { vw: cv.clientWidth, vh: cv.clientHeight }; }
 function baseZoom() { const { vw, vh } = viewSize(); return Math.max(vh / 430, vw / 780); }
 let hadProj = false, pinching = false;
 function updateCam() {
   const { vw, vh } = viewSize();
-  const z = overview ? Math.min(vw / W, vh / (H - 60)) : baseZoom() * cam.user;
+  // Harita görünümü: arazinin tamamı (havadaki adalar ve su dahil) üst/alt düğmelerin arasına sığar
+  const z = overview ? Math.min(vw / W, (vh - OV_PAD) / (WATER + 25 - mapTop)) : baseZoom() * cam.user;
   cam.z += (z - cam.z) * (pinching ? 1 : 0.15);
   if (projs.length && !hadProj) cam.free = false;     // atış yapılınca kamera mermiyi takip etmeye döner
   hadProj = projs.length > 0;
@@ -1843,7 +1861,7 @@ function updateCam() {
     let tx = cam.x, ty = cam.y;
     // Uçak bomba bırakana kadar hedefi göster; sonra bombaları takip et
     const fp = projs.find(p => p.type !== 'jet') || projs[0];
-    if (overview) { tx = W / 2; ty = H / 2 + 30; }
+    if (overview) { tx = W / 2; ty = (mapTop + WATER + 25) / 2 + 8 / cam.z; }
     else if (fp && fp.type === 'jet' && airTarget) { tx = airTarget.x; ty = (surfaceY(airTarget.x) ?? H / 2) - 90; }
     else if (fp) { tx = fp.x; ty = fp.y; }
     else if (state === 'settle' && camHold) { tx = camHold.x; ty = camHold.y; }
@@ -1853,7 +1871,7 @@ function updateCam() {
   const hw = vw / 2 / cam.z, hh = vh / 2 / cam.z;
   cam.x = hw * 2 >= W ? W / 2 : clamp(cam.x, hw, W - hw);
   const yMin = hh - 300, yMax = H - hh + 20;
-  cam.y = yMin > yMax ? (yMin + yMax) / 2 : clamp(cam.y, yMin, yMax);
+  if (!(overview && !cam.free)) cam.y = yMin > yMax ? (yMin + yMax) / 2 : clamp(cam.y, yMin, yMax);
 }
 function toScreen(x, y) { const { vw, vh } = viewSize(); return [(x - cam.x) * cam.z + vw / 2, (y - cam.y) * cam.z + vh / 2]; }
 function toWorld(sx, sy) { const { vw, vh } = viewSize(); return [(sx - vw / 2) / cam.z + cam.x, (sy - vh / 2) / cam.z + cam.y]; }
